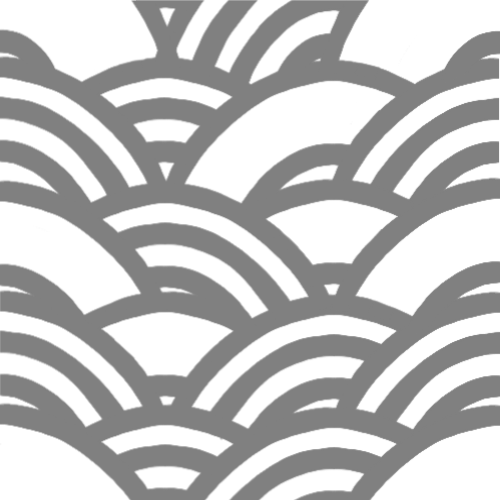
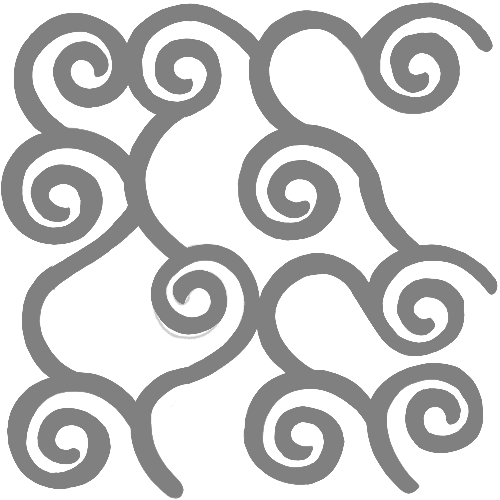
Use the BgSite1 swirl on the games block, keep the dark navy tint.

diff --git a/src/index.css b/src/index.css
@@ -292,7 +292,7 @@ html, body {
   content: "";
   position: absolute;
   inset: 0;
-  background-image: url(/BgSite2.png?v=8);
+  background-image: url(/BgSite2.png?v=10);
   background-repeat: repeat;
   opacity: 0.28;
   mix-blend-mode: screen;
